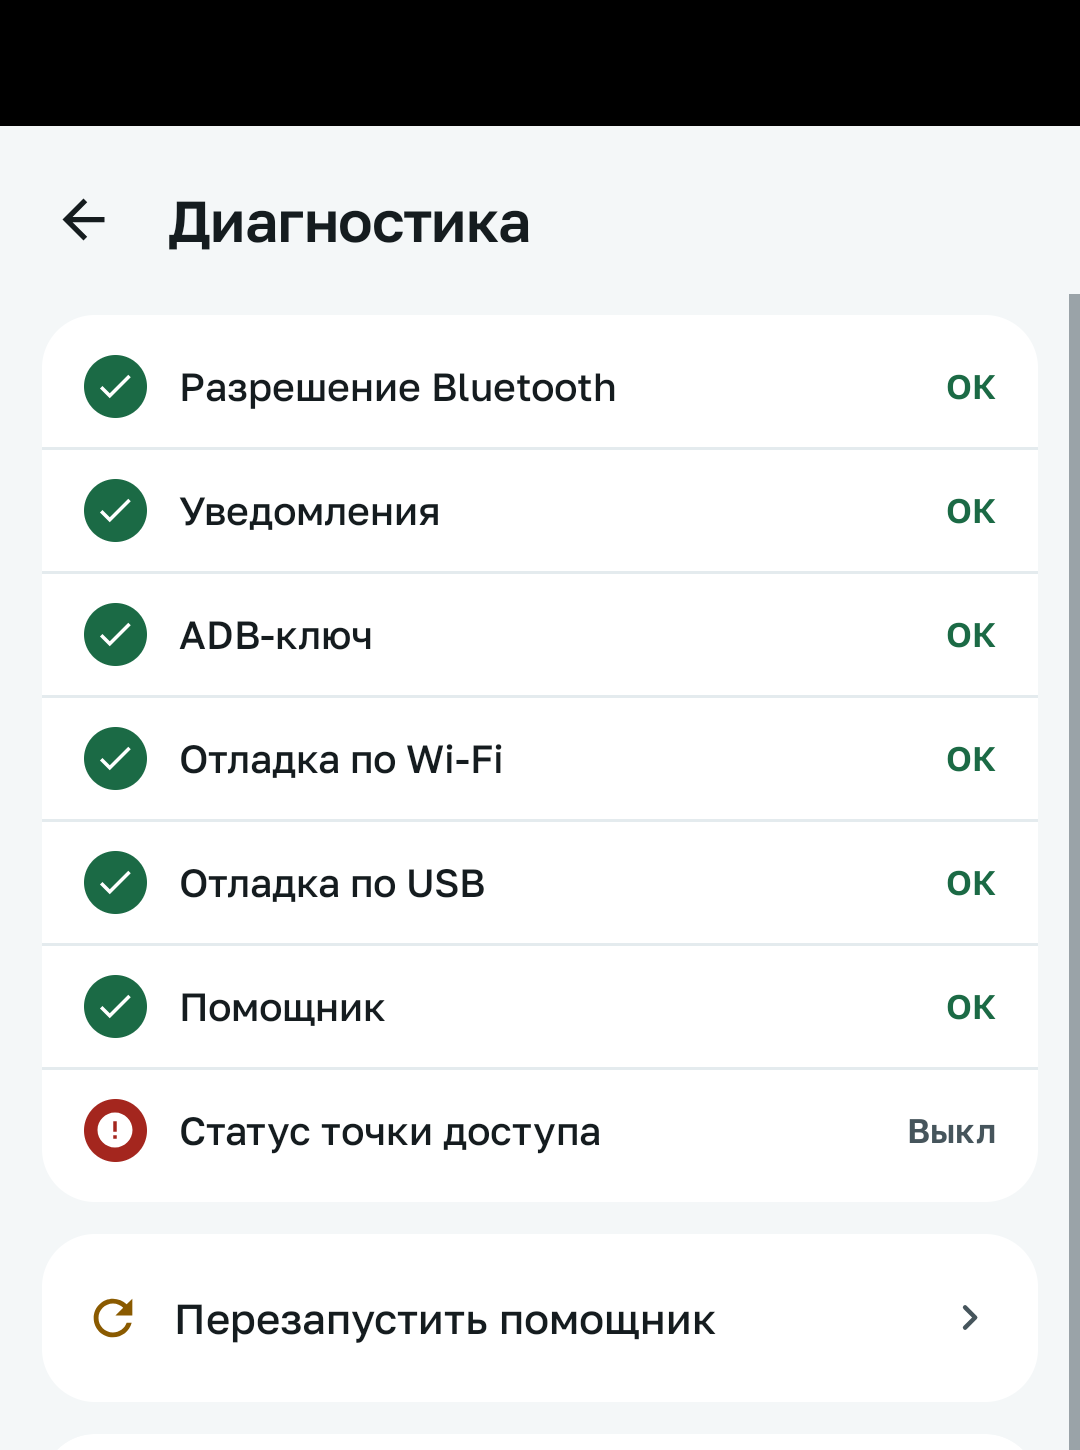
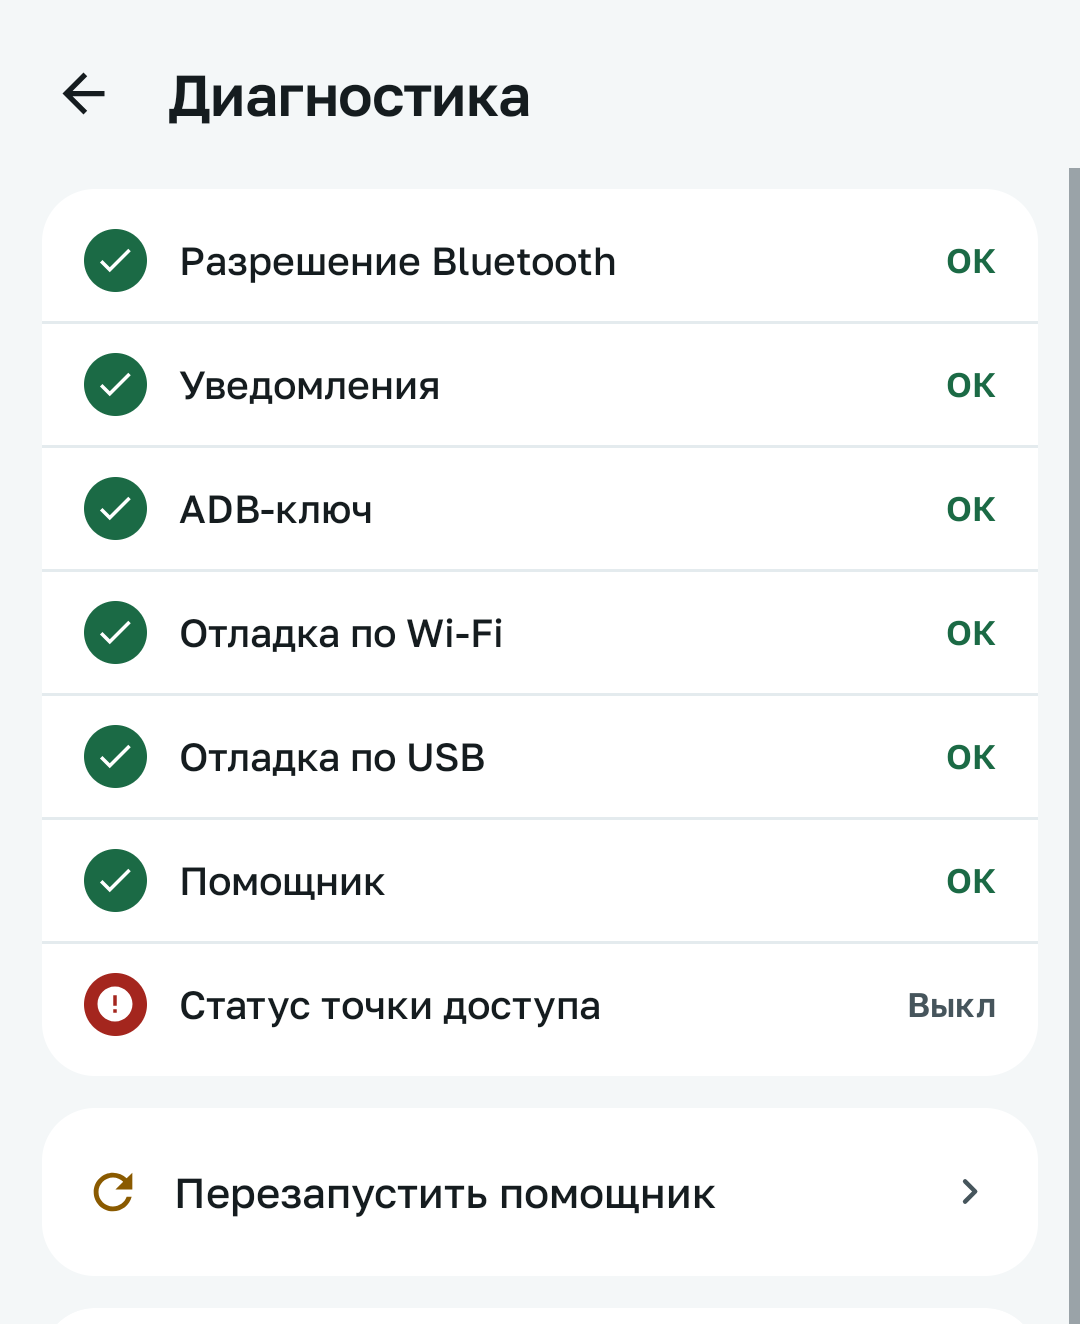
Recolor screenshot redactions to background

diff --git a/docs/screenshots/README.md b/docs/screenshots/README.md
@@ -2,9 +2,10 @@
 
 Все скриншоты обезличены:
 
-- MAC-адреса, имена Bluetooth-устройств и SSID закрыты непрозрачными прямоугольниками;
+- MAC-адреса, имена Bluetooth-устройств и SSID закрыты сплошной заливкой в цвет фона;
 - порт helper скрыт;
 - журнал диагностики в документацию не включён;
-- строка состояния скрыта.
+- строка состояния обрезана;
+- имена и модель телефона не показаны.
 
 Исходные скриншоты с реальными данными в репозитории не хранятся.
